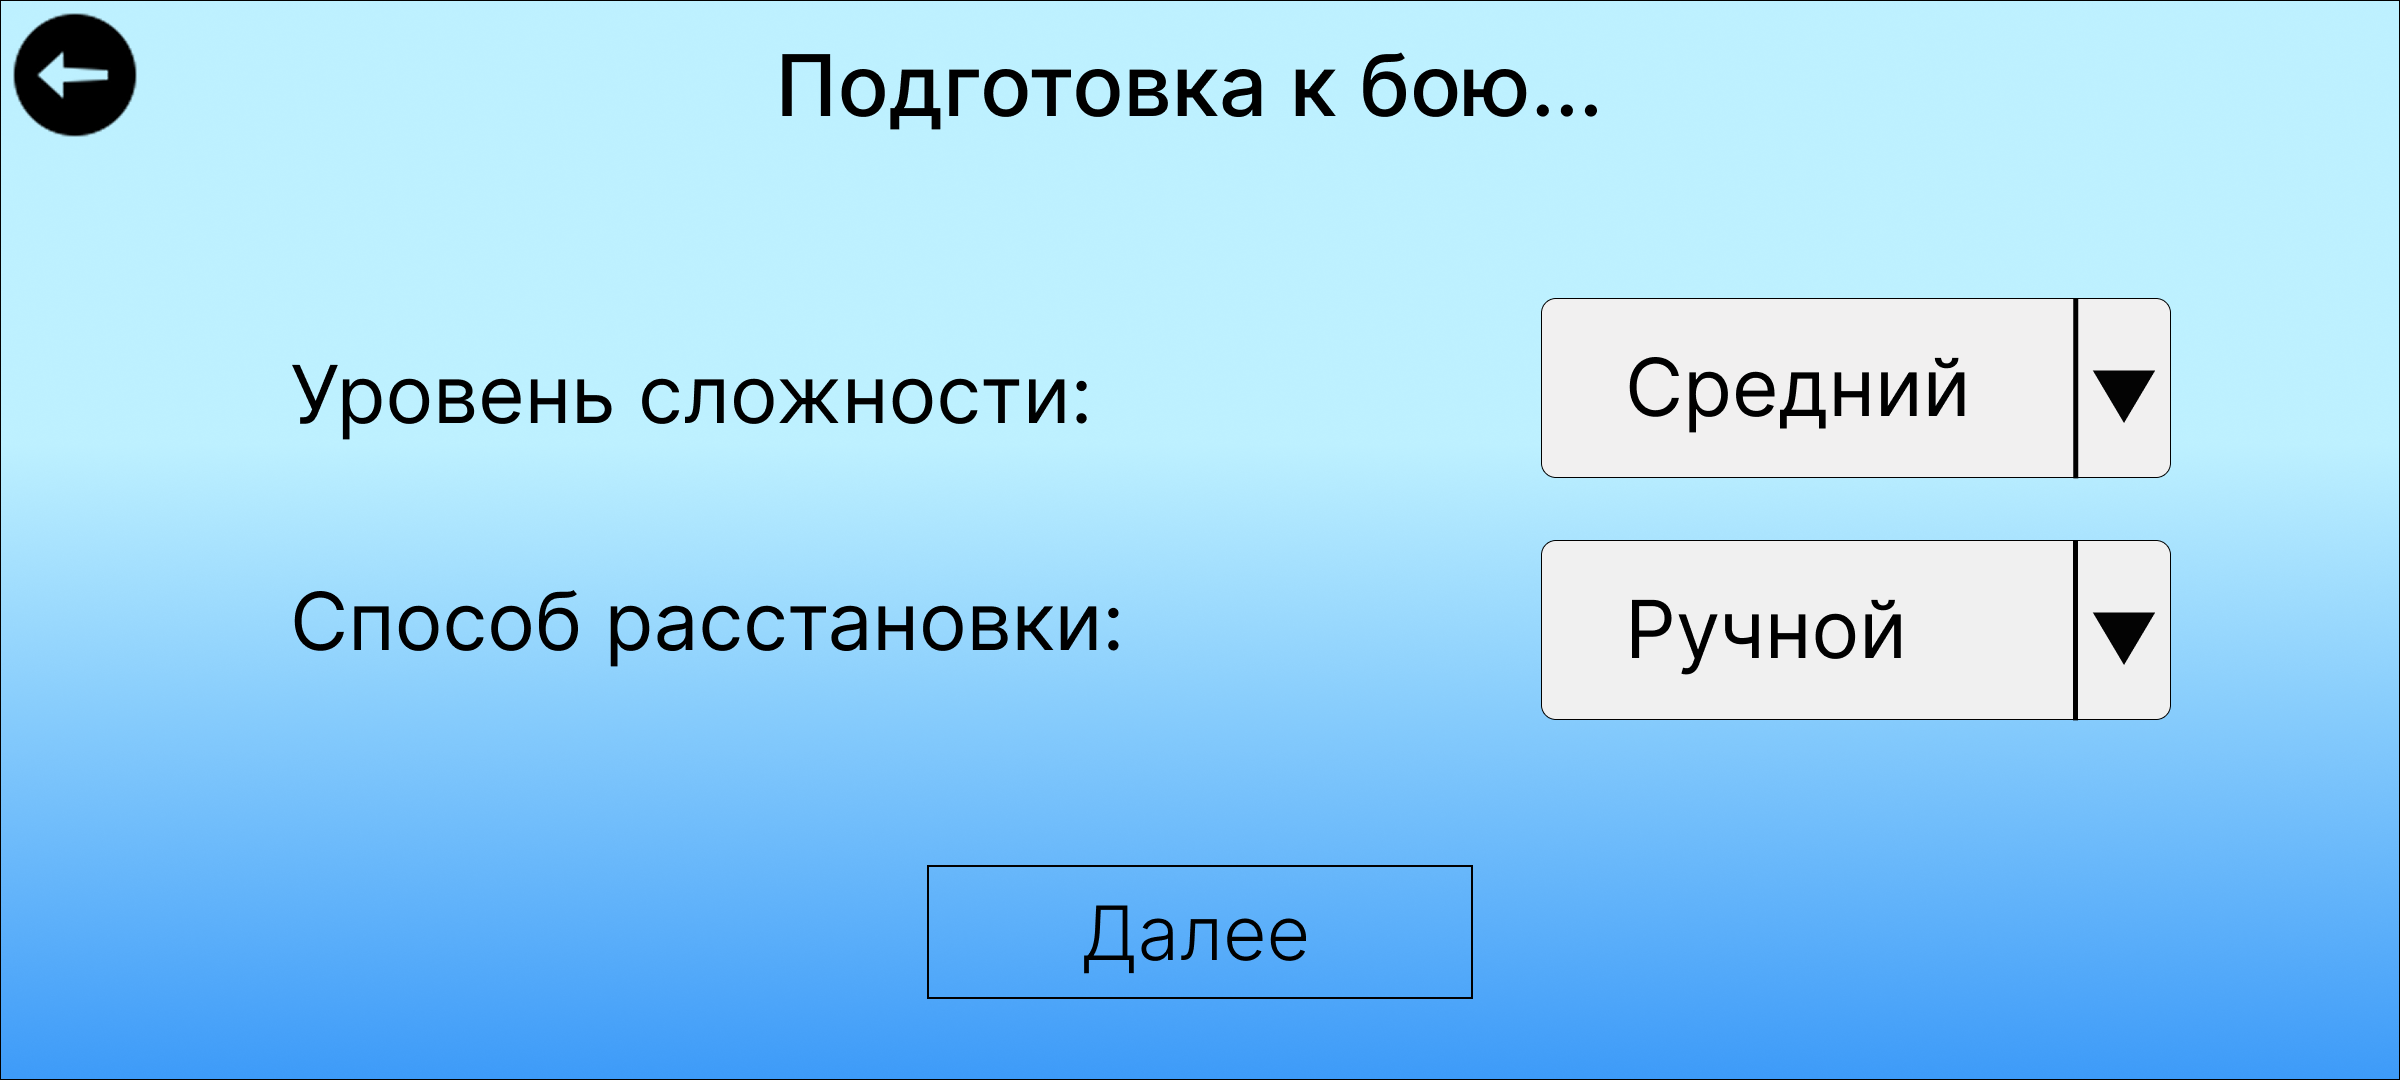
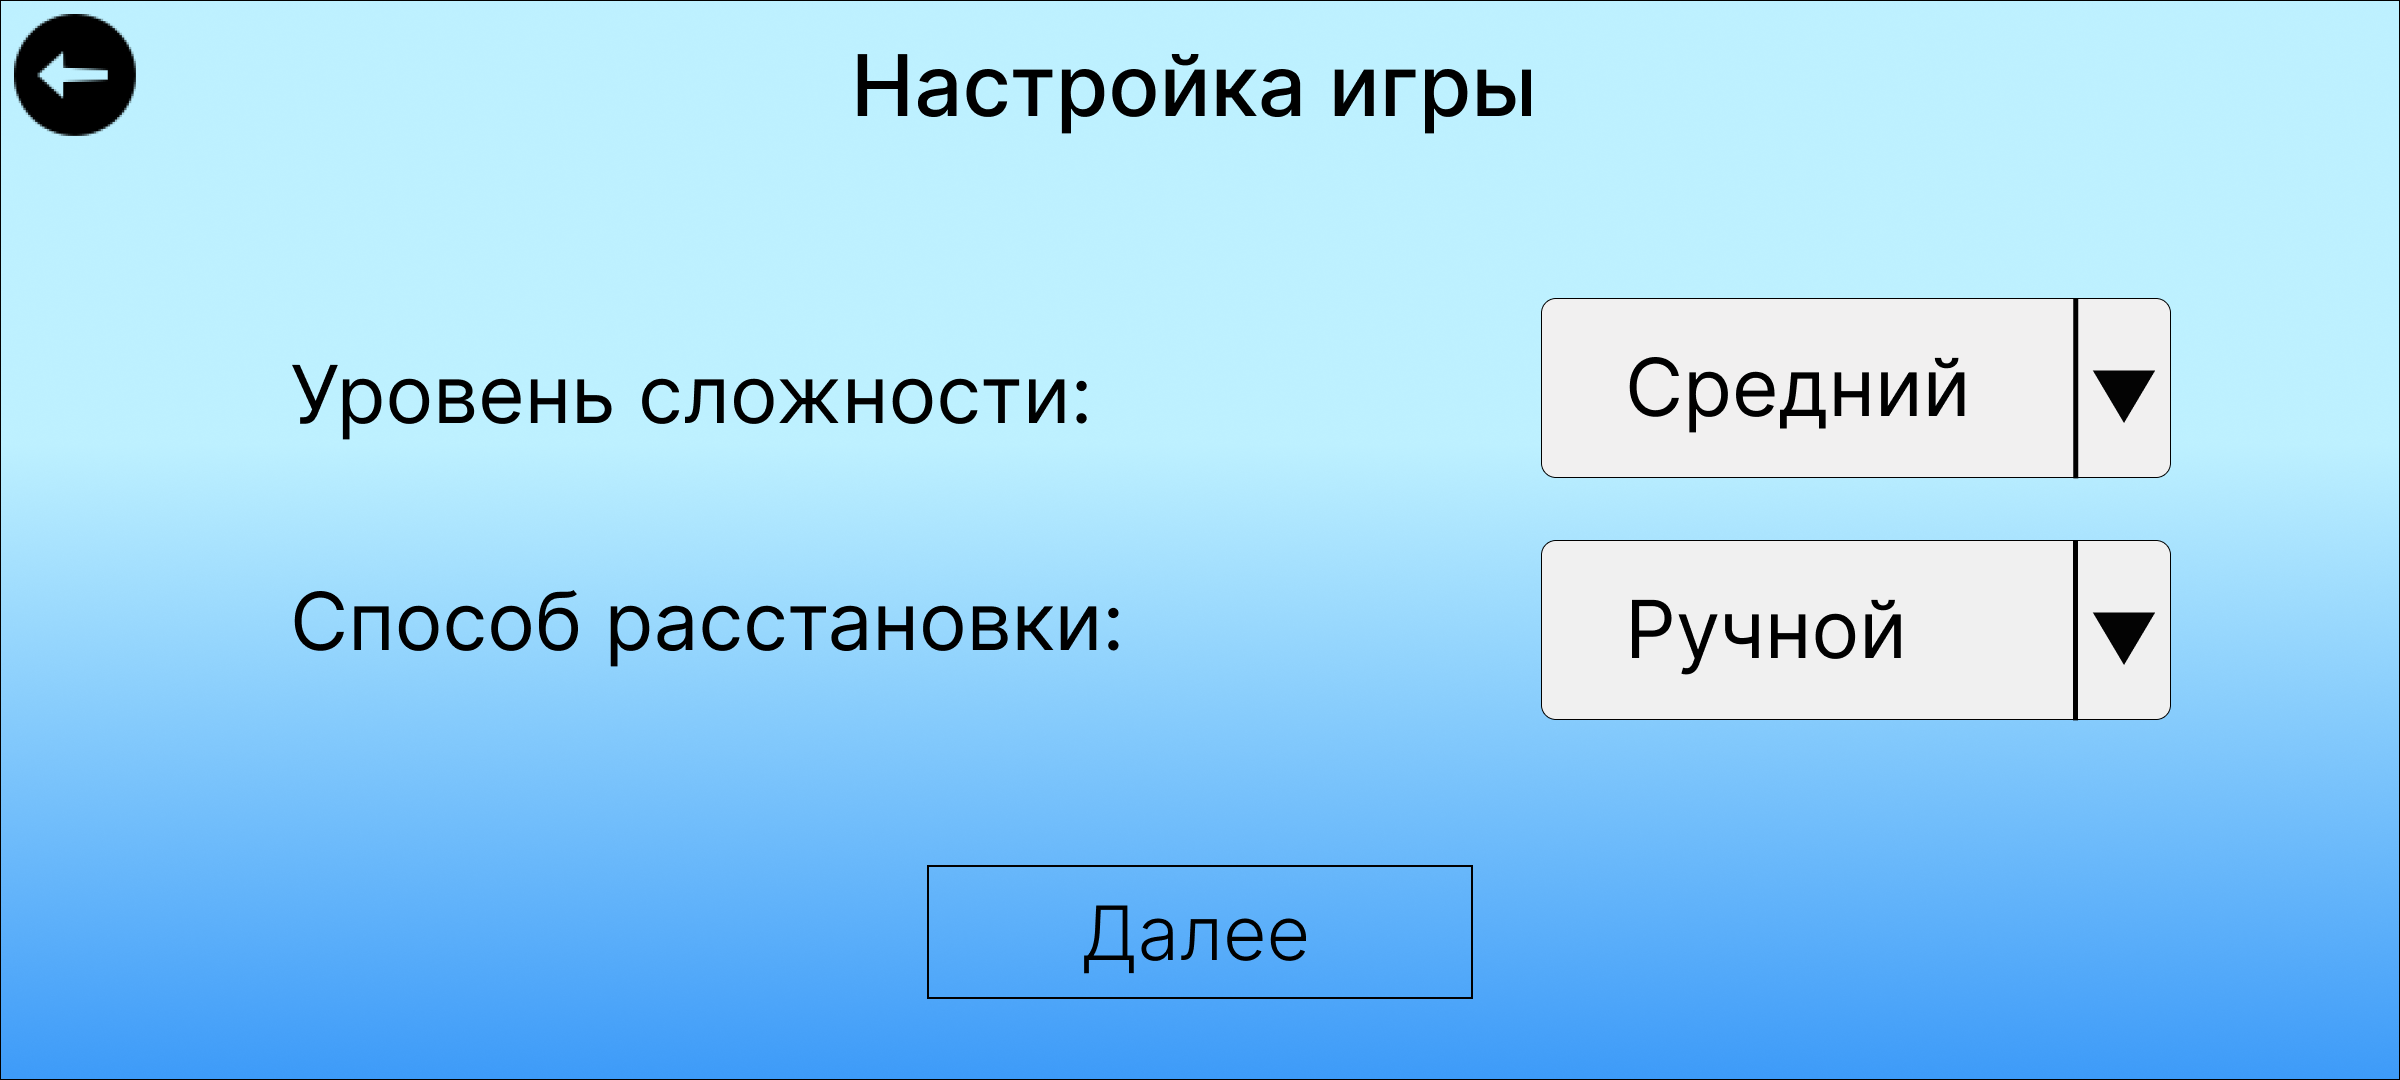
fix: исправлены ошибки в html файле

Changed region(s): [[0.3125, 0.0306, 0.6562, 0.1222]]

diff --git a/app/src/main/assets/help/help.html b/app/src/main/assets/help/help.html
@@ -5,39 +5,65 @@
     <meta name="viewport" content="width=device-width, initial-scale=1.0">
     <title>Краткое руководство пользователя</title>
     <style>
-        html { scroll-behavior: smooth; }
+        html {
+            scroll-behavior: smooth;
+        }
         body {
             font-family: 'Segoe UI', Tahoma, Geneva, Verdana, sans-serif;
             line-height: 1.6;
             margin: 0;
-            padding-top: 70px;
-            padding-bottom: 100px;
+            padding: 90px 20px 100px;
             background: linear-gradient(135deg, #eef3f8 0%, #dbe6f0 100%);
             color: #222;
         }
         nav#toc {
             position: fixed;
-            top: 0; left: 0; right: 0;
+            top: 0;
+            left: 0;
+            right: 0;
+            height: 45px;
             background: #001f3f;
-            color: #fff;
-            display: flex;
-            justify-content: center;
-            flex-wrap: wrap;
-            gap: 14px;
-            padding: 14px 20px;
-            box-shadow: 0 4px 12px rgba(0, 0, 0, 0.3);
             z-index: 1000;
+            box-shadow: 0 4px 12px rgba(0,0,0,0.3);
+            display: flex;
+            align-items: center;
+            padding: 0 90px;
+        }
+        .nav-container {
+            width: 400%;
+            max-width: none;
+            margin: 0 auto;
+            overflow-x: auto;
+            scrollbar-width: thin;
+            scrollbar-color: #00bfff #001f3f;
+        }
+        .nav-container::-webkit-scrollbar {
+            height: 0px;
+        }
+        .nav-container::-webkit-scrollbar-track {
+            background: #001f3f;
+        }
+        .nav-links {
+            display: inline-flex;
+            gap: 15px;
+            padding: 0 15px;
+            height: 35px;
+            align-items: center;
         }
         nav#toc a {
             color: #fff;
             text-decoration: none;
             font-weight: 600;
-            font-size: 0.95rem;
-            transition: color 0.2s, transform 0.2s;
+            font-size: 0.9rem;
+            white-space: nowrap;
+            padding: 8px 12px;
+            border-radius: 0px;
+            transition: all 0.2s ease;
+            background: none;
         }
         nav#toc a:hover {
-            color: #00bfff;
-            transform: scale(1.05);
+            background: rgba(0,191,255,0.3);
+            transform: translateY(-2px);
         }
         section {
             margin: 32px auto;
@@ -151,32 +177,40 @@
             transform: translateY(-2px);
         }
         #toTop {
+            transition: transform 0.3s ease;
             position: fixed;
             bottom: 24px; right: 24px;
             cursor: pointer;
             width: 56px; height: auto;
             z-index: 1000;
         }
+        #toTop:hover {
+            transform: scale(1.1);
+        }
         #toTop img {
             width: 100%; height: auto;
         }
     </style>
 </head>
-<body>
+<body id="top">
 <h1 style="text-align:center; color: #001f3f; margin: 20px auto; font-size: 2.2rem;">Мобильное приложение «игра «Морской бой»</h1>
 <nav id="toc">
-    <a href="#overview">Обзор</a>
-    <a href="#launch">Запуск</a>
-    <a href="#profile">Профиль</a>
-    <a href="#stats">Статистика</a>
-    <a href="#help">Справка</a>
-    <a href="#prep">Подготовка к бою</a>
-    <a href="#manual">Ручная расстановка</a>
-    <a href="#auto">Автоматическая расстановка</a>
-    <a href="#load">Загрузка шаблона</a>
-    <a href="#gameplay">Бой</a>
-    <a href="#rules">Правила</a>
-    <a href="#end">Завершение</a>
+    <div class="nav-container">
+        <div class="nav-links">
+            <a href="#overview">Обзор</a>
+            <a href="#launch">Запуск приложения</a>
+            <a href="#profile">Профиль</a>
+            <a href="#stats">Статистика</a>
+            <a href="#help">Справка</a>
+            <a href="#prep">Настройка игры</a>
+            <a href="#manual">Ручная расстановка</a>
+            <a href="#auto">Автоматическая расстановка</a>
+            <a href="#load">Загрузка расстановки</a>
+            <a href="#gameplay">Бой</a>
+            <a href="#rules">Правила</a>
+            <a href="#end">Завершение</a>
+        </div>
+    </div>
 </nav>
 
 <section id="overview">
@@ -209,7 +243,7 @@
     <p>Введите имя пользователя и нажмите «Сохранить», чтобы применить изменения.</p>
     <img src="img_screen_edit_name.png" alt="Изменение имени">
     <div class="back-note">
-        <a href="#overview"><img src="img_btn_back.png" alt="Назад" width="24"></a>
+        <a href="#launch"><img src="img_btn_back.png" alt="Назад" width="24"></a>
         <span>Для перехода на предыдущий экран нажмите на кнопку</span>
     </div>
 </section>
@@ -226,7 +260,7 @@
     </ul>
     <img src="img_screen_stats.png" alt="Экран Статистика">
     <div class="back-note">
-        <a href="#overview"><img src="img_btn_back.png" alt="Назад" width="24"></a>
+        <a href="#launch"><img src="img_btn_back.png" alt="Назад" width="24"></a>
         <span>Для перехода на предыдущий экран нажмите на кнопку</span>
     </div>
 </section>
@@ -236,14 +270,14 @@
     <p>На экране «Справка» размещены сведения о разработчиках и кнопка «О системе».</p>
     <img src="img_screen_help.png" alt="Экран Справка">
     <div class="back-note">
-        <a href="#overview"><img src="img_btn_back.png" alt="Назад" width="24"></a>
+        <a href="#launch"><img src="img_btn_back.png" alt="Назад" width="24"></a>
         <span>Для перехода на предыдущий экран нажмите на кнопку</span>
     </div>
 </section>
 
 <section id="prep">
-    <h2>Подготовка к бою</h2>
-    <p>На экране «Подготовка к бою» доступны два раскрывающихся списка и кнопка «Далее».</p>
+    <h2>Настройка игры</h2>
+    <p>На экране «Настройка игры» доступны два раскрывающихся списка и кнопка «Далее».</p>
     <p>Нажмите на раскрывающийся список «Уровень сложности» и выберите один уровень сложности из трех представленных:</p>
     <ul>
         <li>Лёгкий;</li>
@@ -259,7 +293,7 @@
     <img src="img_screen_preparation.png" alt="Подготовка к бою">
     <p>Настройки игры устанавливаются по умолчанию, если пользователь не осуществил выбор параметров.</p>
     <div class="back-note">
-        <a href="#overview"><img src="img_btn_back.png" alt="Назад" width="24"></a>
+        <a href="#launch"><img src="img_btn_back.png" alt="Назад" width="24"></a>
         <span>Для перехода на предыдущий экран нажмите на кнопку</span>
     </div>
 </section>
@@ -399,7 +433,6 @@
             <li><strong>Попадание</strong> (○) — клетка помечается кружком. Право хода сохраняется.</li>
             <li><strong>Уничтожение корабля</strong> (■) — все палубы корабля закрашиваются. Автоматически отмечаются смежные клетки как промахи.</li>
         </ol>
-
         <h3>Завершение игры</h3>
         <p>Победа присуждается игроку, первым уничтожившему все 10 кораблей противника.</p>
     </div>
@@ -414,14 +447,12 @@
     <p>После окончания боя отображается <strong>экран результатов</strong> с доступными действиями:</p>
 
     <div class="result-buttons">
-        <a href="#overview" class="game-button">Главное меню</a>
-        <a href="#prep" class="game-button">Сыграть снова</a>
+        <a href="#launch" class="game-button">Главное меню</a>
+        <a href="#gameplay" class="game-button">Сыграть снова</a>
     </div>
     <img src="img_screen_result.png" alt="Результат игры">
 </section>
-
-
-
-<a href="#overview" id="toTop" title="Вернуться наверх"><img src="img_btn_ship.png" alt="Наверх"></a>
+<a href="#top" id="toTop" title="Вернуться наверх"><img src="img_btn_ship.png" alt="Наверх"></a>
 </body>
+
 </html>
